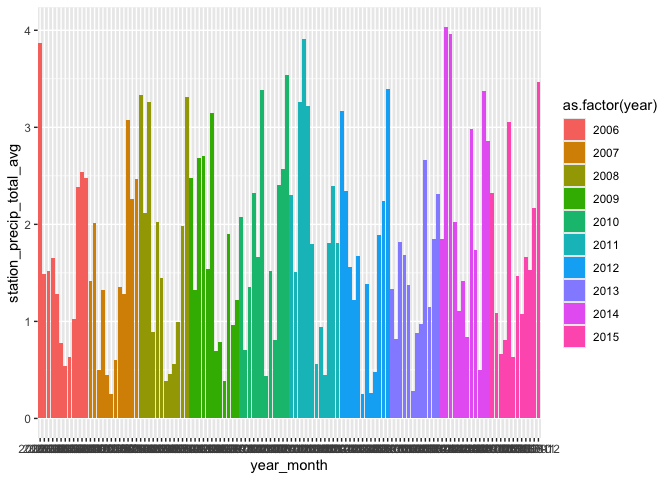
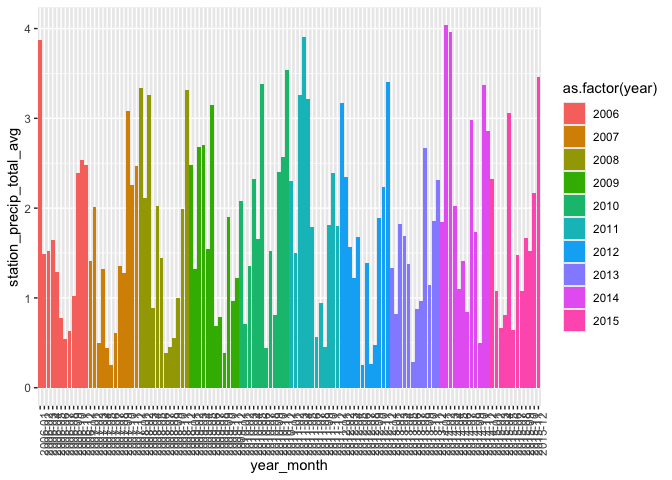
more MORE snowfall

diff --git a/DM_analysis/weather.md b/DM_analysis/weather.md
@@ -274,7 +274,8 @@ reduced_weather |>
   summarize(station_precip_total_avg = mean(station_precip_total, na.rm = TRUE)) |> 
   mutate(year_month = paste(year, month, sep = "-")) |> 
   ggplot(aes(x = year_month, y = station_precip_total_avg, fill = as.factor(year))) +
-  geom_bar(stat = "identity")
+  geom_bar(stat = "identity") + 
+  theme(axis.text.x = element_text(angle = 90, hjust = 1))
 ```
 
     ## `summarise()` has grouped output by 'NAME', 'year'. You can override using the
@@ -346,8 +347,7 @@ reduced_weather |>
   mutate(year_month = paste(year, month, sep = "-")) |> 
   ggplot(aes(x = year_month, y = station_snowfall_total_avg, fill = as.factor(year))) + 
   geom_bar(stat = "identity") + 
-  theme(axis.text.x = element_text(angle = 90, hjust = 1)) + 
-  scale_x_discrete(guide = guide_axis(check.overlap = TRUE))
+  theme(axis.text.x = element_text(angle = 90, hjust = 1))
 ```
 
     ## `summarise()` has grouped output by 'NAME', 'year'. You can override using the
